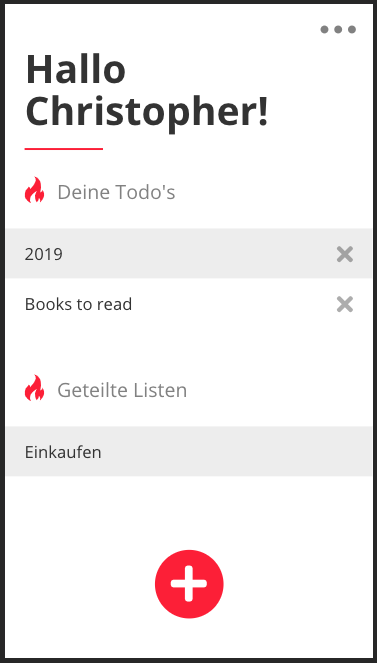
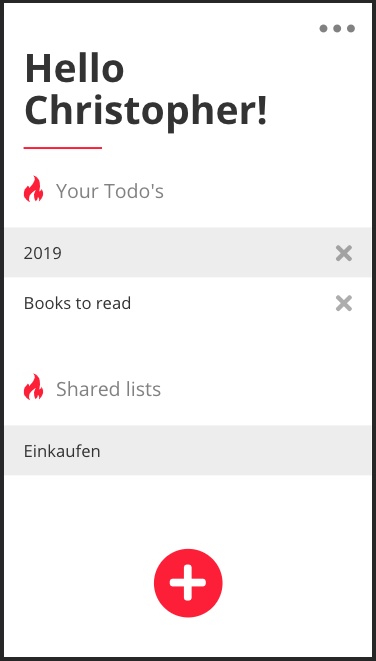
replaced german screenshots

diff --git a/src/containers/ToDo/ToDo.js b/src/containers/ToDo/ToDo.js
@@ -171,7 +171,7 @@ const toDo = props => {
       <ShareButton onClick={showShareList}><span>Share List</span></ShareButton>
       <AddItemForm onSubmit={submit}>
         <BigInputWithBorder onChange={saveActiveToDoItem} ref={inputElAdd} type="text" placeholder="To-Do" />
-        <Button onClick={saveActiveToDoItem}>Hinzufügen</Button>
+        <Button onClick={saveActiveToDoItem}>Add</Button>
       </AddItemForm>
         <ToDoList 
           thisList={thisList} 
